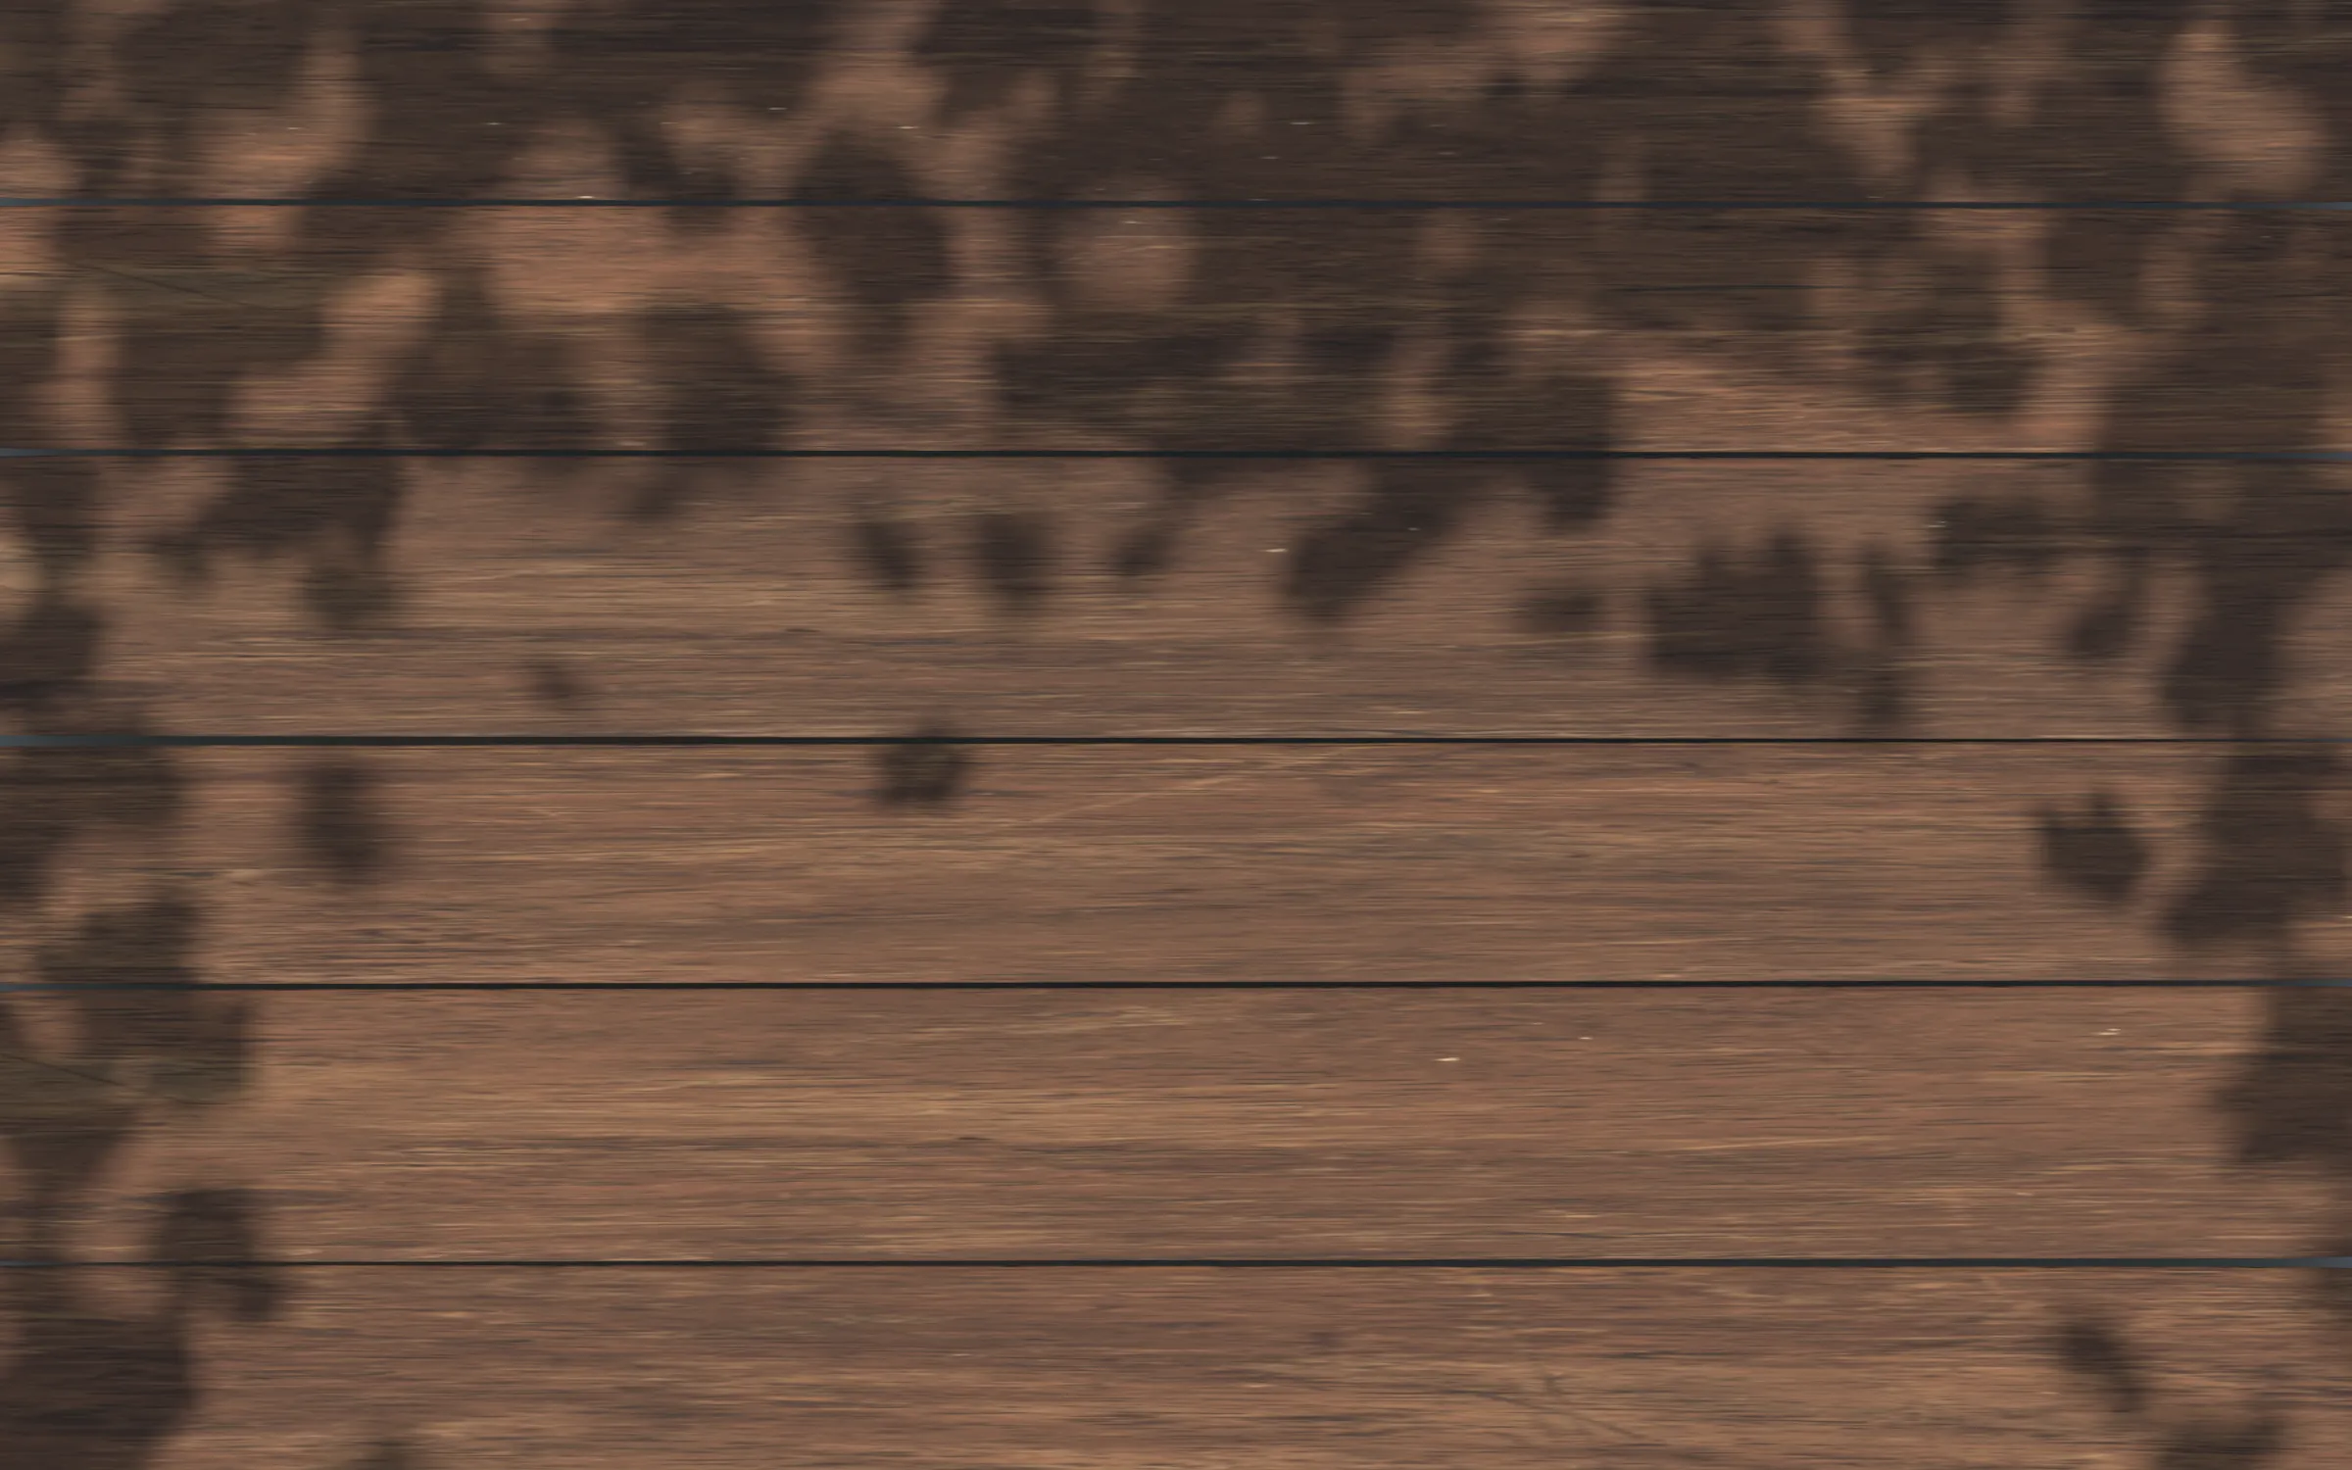
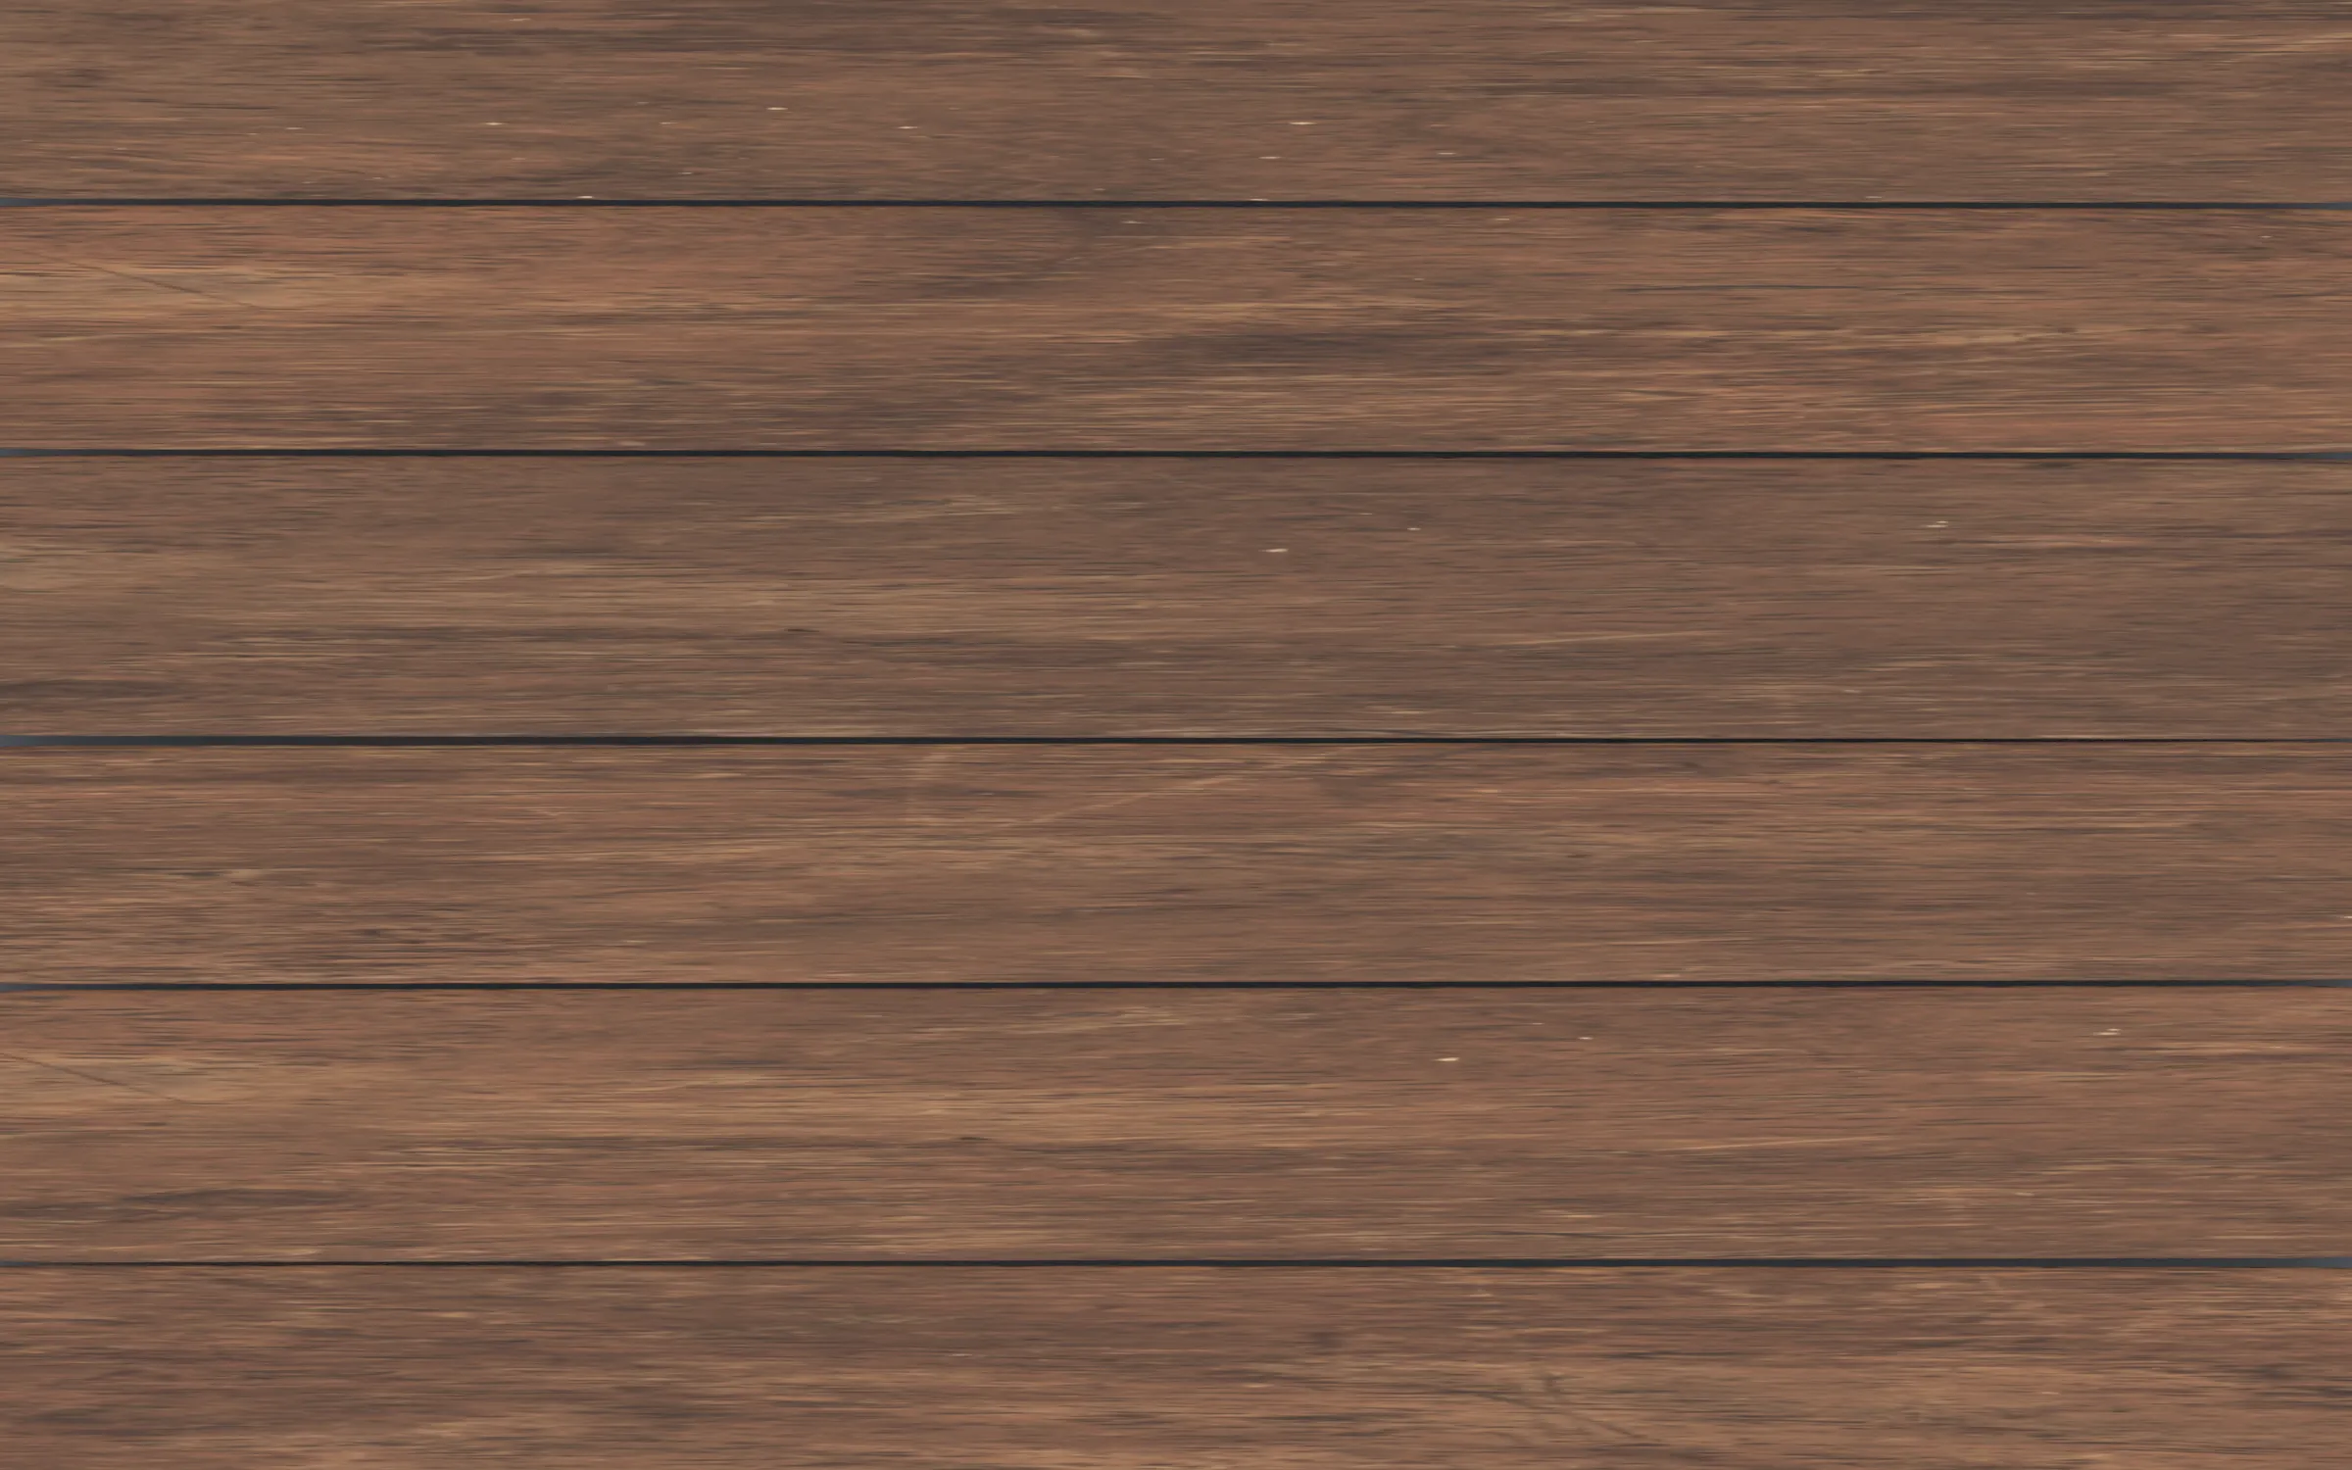
Меню: кнопки и название над тенями на любом экране; стол без двойных теней
Claude-Session: https://claude.ai/code/session_013vq6NREHT7txoK1nXmxN83

diff --git a/index.html b/index.html
@@ -173,9 +173,10 @@ html.rot #app{padding:max(6px,var(--sar)) max(10px,var(--sab)) max(8px,var(--sal
   padding:max(16px,var(--sat)) max(16px,var(--sar)) max(16px,var(--sab)) max(16px,var(--sal));
   display:flex;align-items:center;justify-content:center;
 }
-.menu-in{width:100%;max-width:1100px;display:flex;flex-direction:column;align-items:center;gap:clamp(16px,calc(3 * var(--vh)),28px);perspective:1800px}
+.menu-in{width:100%;max-width:1100px;display:flex;flex-direction:column;align-items:center;gap:clamp(16px,calc(3 * var(--vh)),28px)}
 html.land .menu-in{flex-direction:row;justify-content:center;gap:calc(6 * var(--vw))}
-.case{position:relative;height:min(calc(52 * var(--vh)),calc(calc(78 * var(--vw)) * 700 / 550));aspect-ratio:550/700;flex:0 0 auto;transform-style:preserve-3d;
+.case{position:relative;height:min(calc(52 * var(--vh)),calc(calc(78 * var(--vw)) * 700 / 550));aspect-ratio:550/700;flex:0 0 auto;transform-style:preserve-3d;perspective:1800px;   /* перспектива — на самих нардах: на общем контейнере она склеила бы кнопки в один слой с нардами под тенями */
+ 
   filter:drop-shadow(0 22px 26px rgba(0,0,0,.6)) drop-shadow(0 4px 6px rgba(0,0,0,.5))}
 html.land .case{height:min(calc(76 * var(--vh)),calc(calc(42 * var(--vw)) * 700 / 550))}
 .case .half{position:absolute;inset:0;background:var(--inside) left/auto 100% no-repeat;   /* крышка откидывается вправо: под ней левая половина доски, на её обороте — правая */
@@ -742,10 +743,10 @@ function probeFps(){
 }
 // GAME_VERSION — для людей, меняется при крупных обновлениях; APP_VERSION — номер сборки для кэша, растёт при каждой выкладке
 const GAME_VERSION='1.0';
-const APP_VERSION='67';   // совпадает с V в sw.js: номер сборки (имя кэша)
+const APP_VERSION='68';   // совпадает с V в sw.js: номер сборки (имя кэша)
 // AV — короткие хеши содержимого картинок (их пишет tools/stamp.py): адрес меняется, только когда меняется сам файл,
 // поэтому после обновления заново качается лишь то, что изменилось
-/*AV*/const AV={"boards/ararat-thumb.webp":"72ff05c2","boards/ararat.webp":"7c44b1ce","boards/ck-beech.png":"ef00f4f8","boards/ck-bronze.png":"db6b57b9","boards/ck-copper.png":"761c282a","boards/ck-gold.png":"87fddeef","boards/ck-ivory.png":"372b72ce","boards/ck-onyx.png":"bfb41b3a","boards/ck-pearl.png":"83aaf841","boards/ck-pomegranate.png":"73a5236d","boards/ck-walnut.png":"1857427e","boards/ckside-beech.png":"2e4a01b1","boards/ckside-bronze.png":"700fbb0d","boards/ckside-copper.png":"54a53742","boards/ckside-gold.png":"f3c3b036","boards/ckside-ivory.png":"cce1b2d9","boards/ckside-onyx.png":"3695f6bf","boards/ckside-pearl.png":"d9c5e6f3","boards/ckside-pomegranate.png":"79fe0975","boards/ckside-walnut.png":"bc0fa647","boards/die-1.png":"2d6046dd","boards/die-2.png":"dba1ef51","boards/die-3.png":"c4754c62","boards/die-4.png":"c26495e1","boards/die-5.png":"49661381","boards/die-6.png":"3d46b683","boards/die-amber-1.png":"105d06f3","boards/die-amber-2.png":"f7695264","boards/die-amber-3.png":"518fcc5b","boards/die-amber-4.png":"82e42d65","boards/die-amber-5.png":"a53a1fed","boards/die-amber-6.png":"6114a46b","boards/die-wood-1.png":"f9fecd23","boards/die-wood-2.png":"dad9e71b","boards/die-wood-3.png":"ebe40557","boards/die-wood-4.png":"f8c4f6d2","boards/die-wood-5.png":"239c202c","boards/die-wood-6.png":"ea05a4a3","boards/glass-thumb.webp":"5db12bdb","boards/glass.webp":"3fe1cddb","boards/leafshade.webp":"89c5bdc0","boards/lid.webp":"47f4a845","boards/maple.webp":"c7e0d43c","boards/night-thumb.webp":"61a42599","boards/night.webp":"96cd9880","boards/plaque.webp":"6c60c0b6","boards/pomegranate-thumb.webp":"d5574e56","boards/pomegranate.webp":"a89189f5","boards/prop-beads.webp":"01fd0477","boards/prop-cup.webp":"67e8e539","boards/prop-pack.webp":"a1f55e5d","boards/pt-ararat-long.png":"b706af0c","boards/pt-ararat-short.png":"0d9bdbb6","boards/pt-glass-long.png":"2474d3b3","boards/pt-glass-short.png":"2474d3b3","boards/pt-night-long.png":"c9576df0","boards/pt-night-short.png":"c9576df0","boards/pt-pomegranate-long.png":"b706af0c","boards/pt-pomegranate-short.png":"0d9bdbb6","boards/pt-sevan-long.png":"b706af0c","boards/pt-sevan-short.png":"0d9bdbb6","boards/pt-yerevan-long.png":"f28ec383","boards/pt-yerevan-short.png":"78fa0ed8","boards/sevan-thumb.webp":"35db3522","boards/sevan.webp":"56ec51be","boards/table.webp":"34c082e5","boards/walnut-plank.webp":"3f05219c","boards/yerevan-thumb.webp":"4817779b","boards/yerevan.webp":"64e36c39"};/*/AV*/
+/*AV*/const AV={"boards/ararat-thumb.webp":"72ff05c2","boards/ararat.webp":"7c44b1ce","boards/ck-beech.png":"ef00f4f8","boards/ck-bronze.png":"db6b57b9","boards/ck-copper.png":"761c282a","boards/ck-gold.png":"87fddeef","boards/ck-ivory.png":"372b72ce","boards/ck-onyx.png":"bfb41b3a","boards/ck-pearl.png":"83aaf841","boards/ck-pomegranate.png":"73a5236d","boards/ck-walnut.png":"1857427e","boards/ckside-beech.png":"2e4a01b1","boards/ckside-bronze.png":"700fbb0d","boards/ckside-copper.png":"54a53742","boards/ckside-gold.png":"f3c3b036","boards/ckside-ivory.png":"cce1b2d9","boards/ckside-onyx.png":"3695f6bf","boards/ckside-pearl.png":"d9c5e6f3","boards/ckside-pomegranate.png":"79fe0975","boards/ckside-walnut.png":"bc0fa647","boards/die-1.png":"2d6046dd","boards/die-2.png":"dba1ef51","boards/die-3.png":"c4754c62","boards/die-4.png":"c26495e1","boards/die-5.png":"49661381","boards/die-6.png":"3d46b683","boards/die-amber-1.png":"105d06f3","boards/die-amber-2.png":"f7695264","boards/die-amber-3.png":"518fcc5b","boards/die-amber-4.png":"82e42d65","boards/die-amber-5.png":"a53a1fed","boards/die-amber-6.png":"6114a46b","boards/die-wood-1.png":"f9fecd23","boards/die-wood-2.png":"dad9e71b","boards/die-wood-3.png":"ebe40557","boards/die-wood-4.png":"f8c4f6d2","boards/die-wood-5.png":"239c202c","boards/die-wood-6.png":"ea05a4a3","boards/glass-thumb.webp":"5db12bdb","boards/glass.webp":"3fe1cddb","boards/leafshade.webp":"89c5bdc0","boards/lid.webp":"47f4a845","boards/maple.webp":"c7e0d43c","boards/night-thumb.webp":"61a42599","boards/night.webp":"96cd9880","boards/plaque.webp":"6c60c0b6","boards/pomegranate-thumb.webp":"d5574e56","boards/pomegranate.webp":"a89189f5","boards/prop-beads.webp":"01fd0477","boards/prop-cup.webp":"67e8e539","boards/prop-pack.webp":"a1f55e5d","boards/pt-ararat-long.png":"b706af0c","boards/pt-ararat-short.png":"0d9bdbb6","boards/pt-glass-long.png":"2474d3b3","boards/pt-glass-short.png":"2474d3b3","boards/pt-night-long.png":"c9576df0","boards/pt-night-short.png":"c9576df0","boards/pt-pomegranate-long.png":"b706af0c","boards/pt-pomegranate-short.png":"0d9bdbb6","boards/pt-sevan-long.png":"b706af0c","boards/pt-sevan-short.png":"0d9bdbb6","boards/pt-yerevan-long.png":"f28ec383","boards/pt-yerevan-short.png":"78fa0ed8","boards/sevan-thumb.webp":"35db3522","boards/sevan.webp":"56ec51be","boards/table.webp":"d353fc6c","boards/walnut-plank.webp":"3f05219c","boards/yerevan-thumb.webp":"4817779b","boards/yerevan.webp":"64e36c39"};/*/AV*/
 const av=p=>p+'?v='+(AV[p]||APP_VERSION);
 const NS='http://www.w3.org/2000/svg';
 const f2=v=>(+v).toFixed(1);

diff --git a/sw.js b/sw.js
@@ -1,8 +1,8 @@
 // Офлайн-кэш: страница, доски, звуки и шрифты кэшируются при установке.
-const V = '67';                 // = APP_VERSION в index.html
+const V = '68';                 // = APP_VERSION в index.html
 const VERSION = 'nardy-v' + V;
 // хеши содержимого картинок — те же, что AV в index.html (пишет tools/stamp.py)
-/*AV*/const AV={"boards/ararat-thumb.webp":"72ff05c2","boards/ararat.webp":"7c44b1ce","boards/ck-beech.png":"ef00f4f8","boards/ck-bronze.png":"db6b57b9","boards/ck-copper.png":"761c282a","boards/ck-gold.png":"87fddeef","boards/ck-ivory.png":"372b72ce","boards/ck-onyx.png":"bfb41b3a","boards/ck-pearl.png":"83aaf841","boards/ck-pomegranate.png":"73a5236d","boards/ck-walnut.png":"1857427e","boards/ckside-beech.png":"2e4a01b1","boards/ckside-bronze.png":"700fbb0d","boards/ckside-copper.png":"54a53742","boards/ckside-gold.png":"f3c3b036","boards/ckside-ivory.png":"cce1b2d9","boards/ckside-onyx.png":"3695f6bf","boards/ckside-pearl.png":"d9c5e6f3","boards/ckside-pomegranate.png":"79fe0975","boards/ckside-walnut.png":"bc0fa647","boards/die-1.png":"2d6046dd","boards/die-2.png":"dba1ef51","boards/die-3.png":"c4754c62","boards/die-4.png":"c26495e1","boards/die-5.png":"49661381","boards/die-6.png":"3d46b683","boards/die-amber-1.png":"105d06f3","boards/die-amber-2.png":"f7695264","boards/die-amber-3.png":"518fcc5b","boards/die-amber-4.png":"82e42d65","boards/die-amber-5.png":"a53a1fed","boards/die-amber-6.png":"6114a46b","boards/die-wood-1.png":"f9fecd23","boards/die-wood-2.png":"dad9e71b","boards/die-wood-3.png":"ebe40557","boards/die-wood-4.png":"f8c4f6d2","boards/die-wood-5.png":"239c202c","boards/die-wood-6.png":"ea05a4a3","boards/glass-thumb.webp":"5db12bdb","boards/glass.webp":"3fe1cddb","boards/leafshade.webp":"89c5bdc0","boards/lid.webp":"47f4a845","boards/maple.webp":"c7e0d43c","boards/night-thumb.webp":"61a42599","boards/night.webp":"96cd9880","boards/plaque.webp":"6c60c0b6","boards/pomegranate-thumb.webp":"d5574e56","boards/pomegranate.webp":"a89189f5","boards/prop-beads.webp":"01fd0477","boards/prop-cup.webp":"67e8e539","boards/prop-pack.webp":"a1f55e5d","boards/pt-ararat-long.png":"b706af0c","boards/pt-ararat-short.png":"0d9bdbb6","boards/pt-glass-long.png":"2474d3b3","boards/pt-glass-short.png":"2474d3b3","boards/pt-night-long.png":"c9576df0","boards/pt-night-short.png":"c9576df0","boards/pt-pomegranate-long.png":"b706af0c","boards/pt-pomegranate-short.png":"0d9bdbb6","boards/pt-sevan-long.png":"b706af0c","boards/pt-sevan-short.png":"0d9bdbb6","boards/pt-yerevan-long.png":"f28ec383","boards/pt-yerevan-short.png":"78fa0ed8","boards/sevan-thumb.webp":"35db3522","boards/sevan.webp":"56ec51be","boards/table.webp":"34c082e5","boards/walnut-plank.webp":"3f05219c","boards/yerevan-thumb.webp":"4817779b","boards/yerevan.webp":"64e36c39"};/*/AV*/
+/*AV*/const AV={"boards/ararat-thumb.webp":"72ff05c2","boards/ararat.webp":"7c44b1ce","boards/ck-beech.png":"ef00f4f8","boards/ck-bronze.png":"db6b57b9","boards/ck-copper.png":"761c282a","boards/ck-gold.png":"87fddeef","boards/ck-ivory.png":"372b72ce","boards/ck-onyx.png":"bfb41b3a","boards/ck-pearl.png":"83aaf841","boards/ck-pomegranate.png":"73a5236d","boards/ck-walnut.png":"1857427e","boards/ckside-beech.png":"2e4a01b1","boards/ckside-bronze.png":"700fbb0d","boards/ckside-copper.png":"54a53742","boards/ckside-gold.png":"f3c3b036","boards/ckside-ivory.png":"cce1b2d9","boards/ckside-onyx.png":"3695f6bf","boards/ckside-pearl.png":"d9c5e6f3","boards/ckside-pomegranate.png":"79fe0975","boards/ckside-walnut.png":"bc0fa647","boards/die-1.png":"2d6046dd","boards/die-2.png":"dba1ef51","boards/die-3.png":"c4754c62","boards/die-4.png":"c26495e1","boards/die-5.png":"49661381","boards/die-6.png":"3d46b683","boards/die-amber-1.png":"105d06f3","boards/die-amber-2.png":"f7695264","boards/die-amber-3.png":"518fcc5b","boards/die-amber-4.png":"82e42d65","boards/die-amber-5.png":"a53a1fed","boards/die-amber-6.png":"6114a46b","boards/die-wood-1.png":"f9fecd23","boards/die-wood-2.png":"dad9e71b","boards/die-wood-3.png":"ebe40557","boards/die-wood-4.png":"f8c4f6d2","boards/die-wood-5.png":"239c202c","boards/die-wood-6.png":"ea05a4a3","boards/glass-thumb.webp":"5db12bdb","boards/glass.webp":"3fe1cddb","boards/leafshade.webp":"89c5bdc0","boards/lid.webp":"47f4a845","boards/maple.webp":"c7e0d43c","boards/night-thumb.webp":"61a42599","boards/night.webp":"96cd9880","boards/plaque.webp":"6c60c0b6","boards/pomegranate-thumb.webp":"d5574e56","boards/pomegranate.webp":"a89189f5","boards/prop-beads.webp":"01fd0477","boards/prop-cup.webp":"67e8e539","boards/prop-pack.webp":"a1f55e5d","boards/pt-ararat-long.png":"b706af0c","boards/pt-ararat-short.png":"0d9bdbb6","boards/pt-glass-long.png":"2474d3b3","boards/pt-glass-short.png":"2474d3b3","boards/pt-night-long.png":"c9576df0","boards/pt-night-short.png":"c9576df0","boards/pt-pomegranate-long.png":"b706af0c","boards/pt-pomegranate-short.png":"0d9bdbb6","boards/pt-sevan-long.png":"b706af0c","boards/pt-sevan-short.png":"0d9bdbb6","boards/pt-yerevan-long.png":"f28ec383","boards/pt-yerevan-short.png":"78fa0ed8","boards/sevan-thumb.webp":"35db3522","boards/sevan.webp":"56ec51be","boards/table.webp":"d353fc6c","boards/walnut-plank.webp":"3f05219c","boards/yerevan-thumb.webp":"4817779b","boards/yerevan.webp":"64e36c39"};/*/AV*/
 const av = p => AV[p] ? p + '?v=' + AV[p] : p;
 const SHELL = [
   './',
